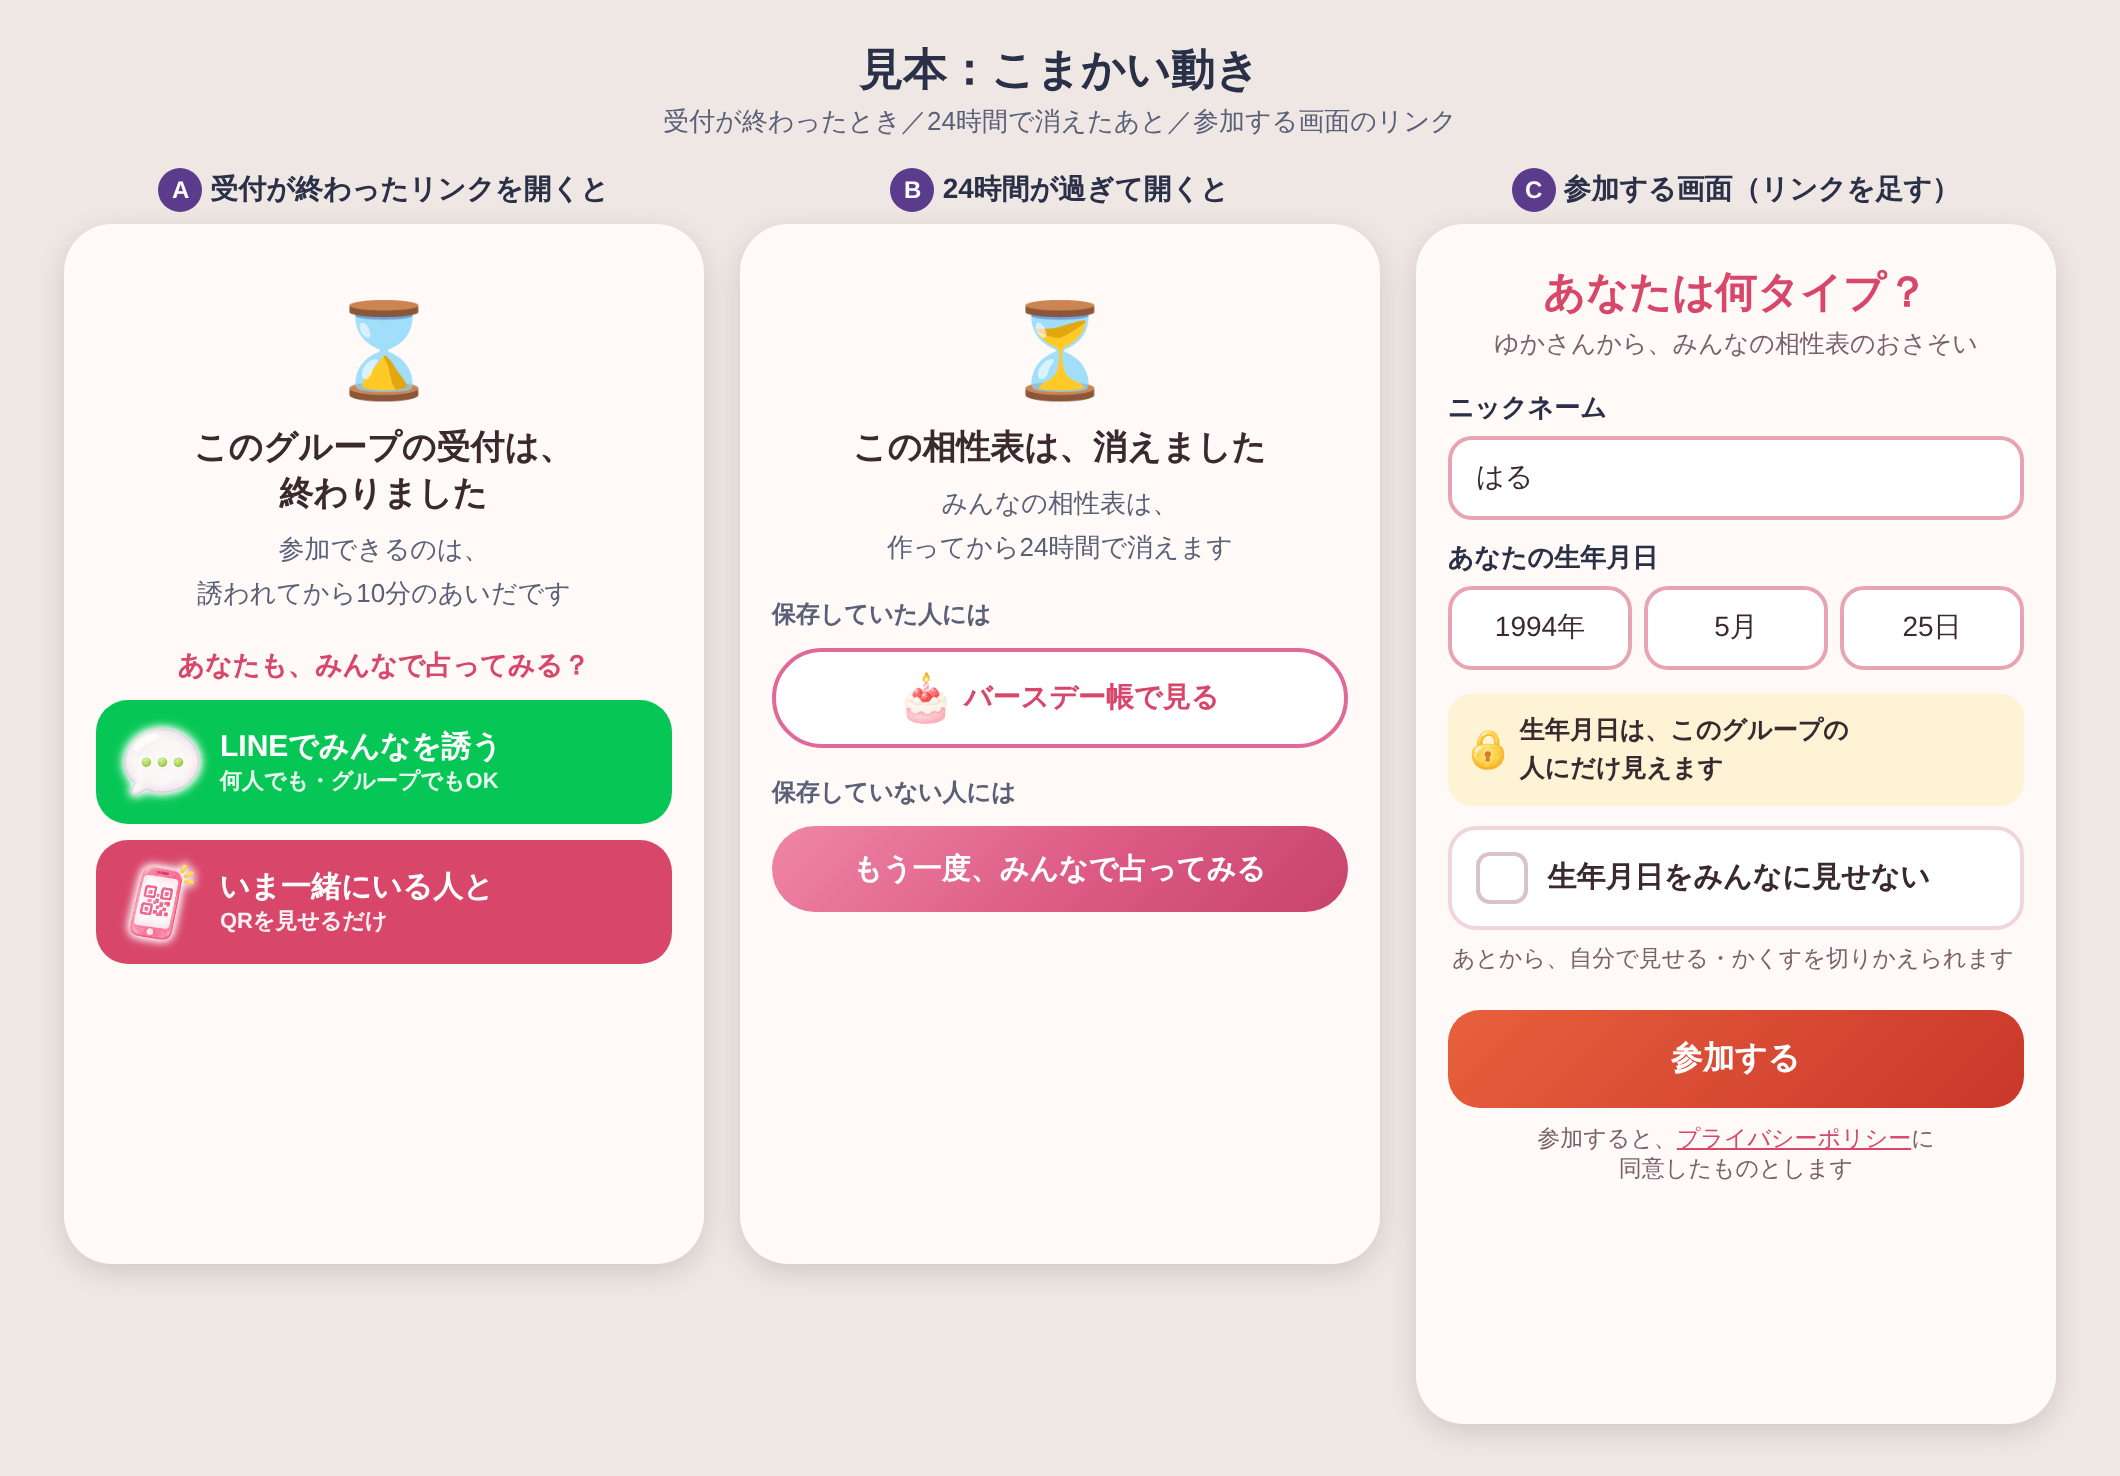
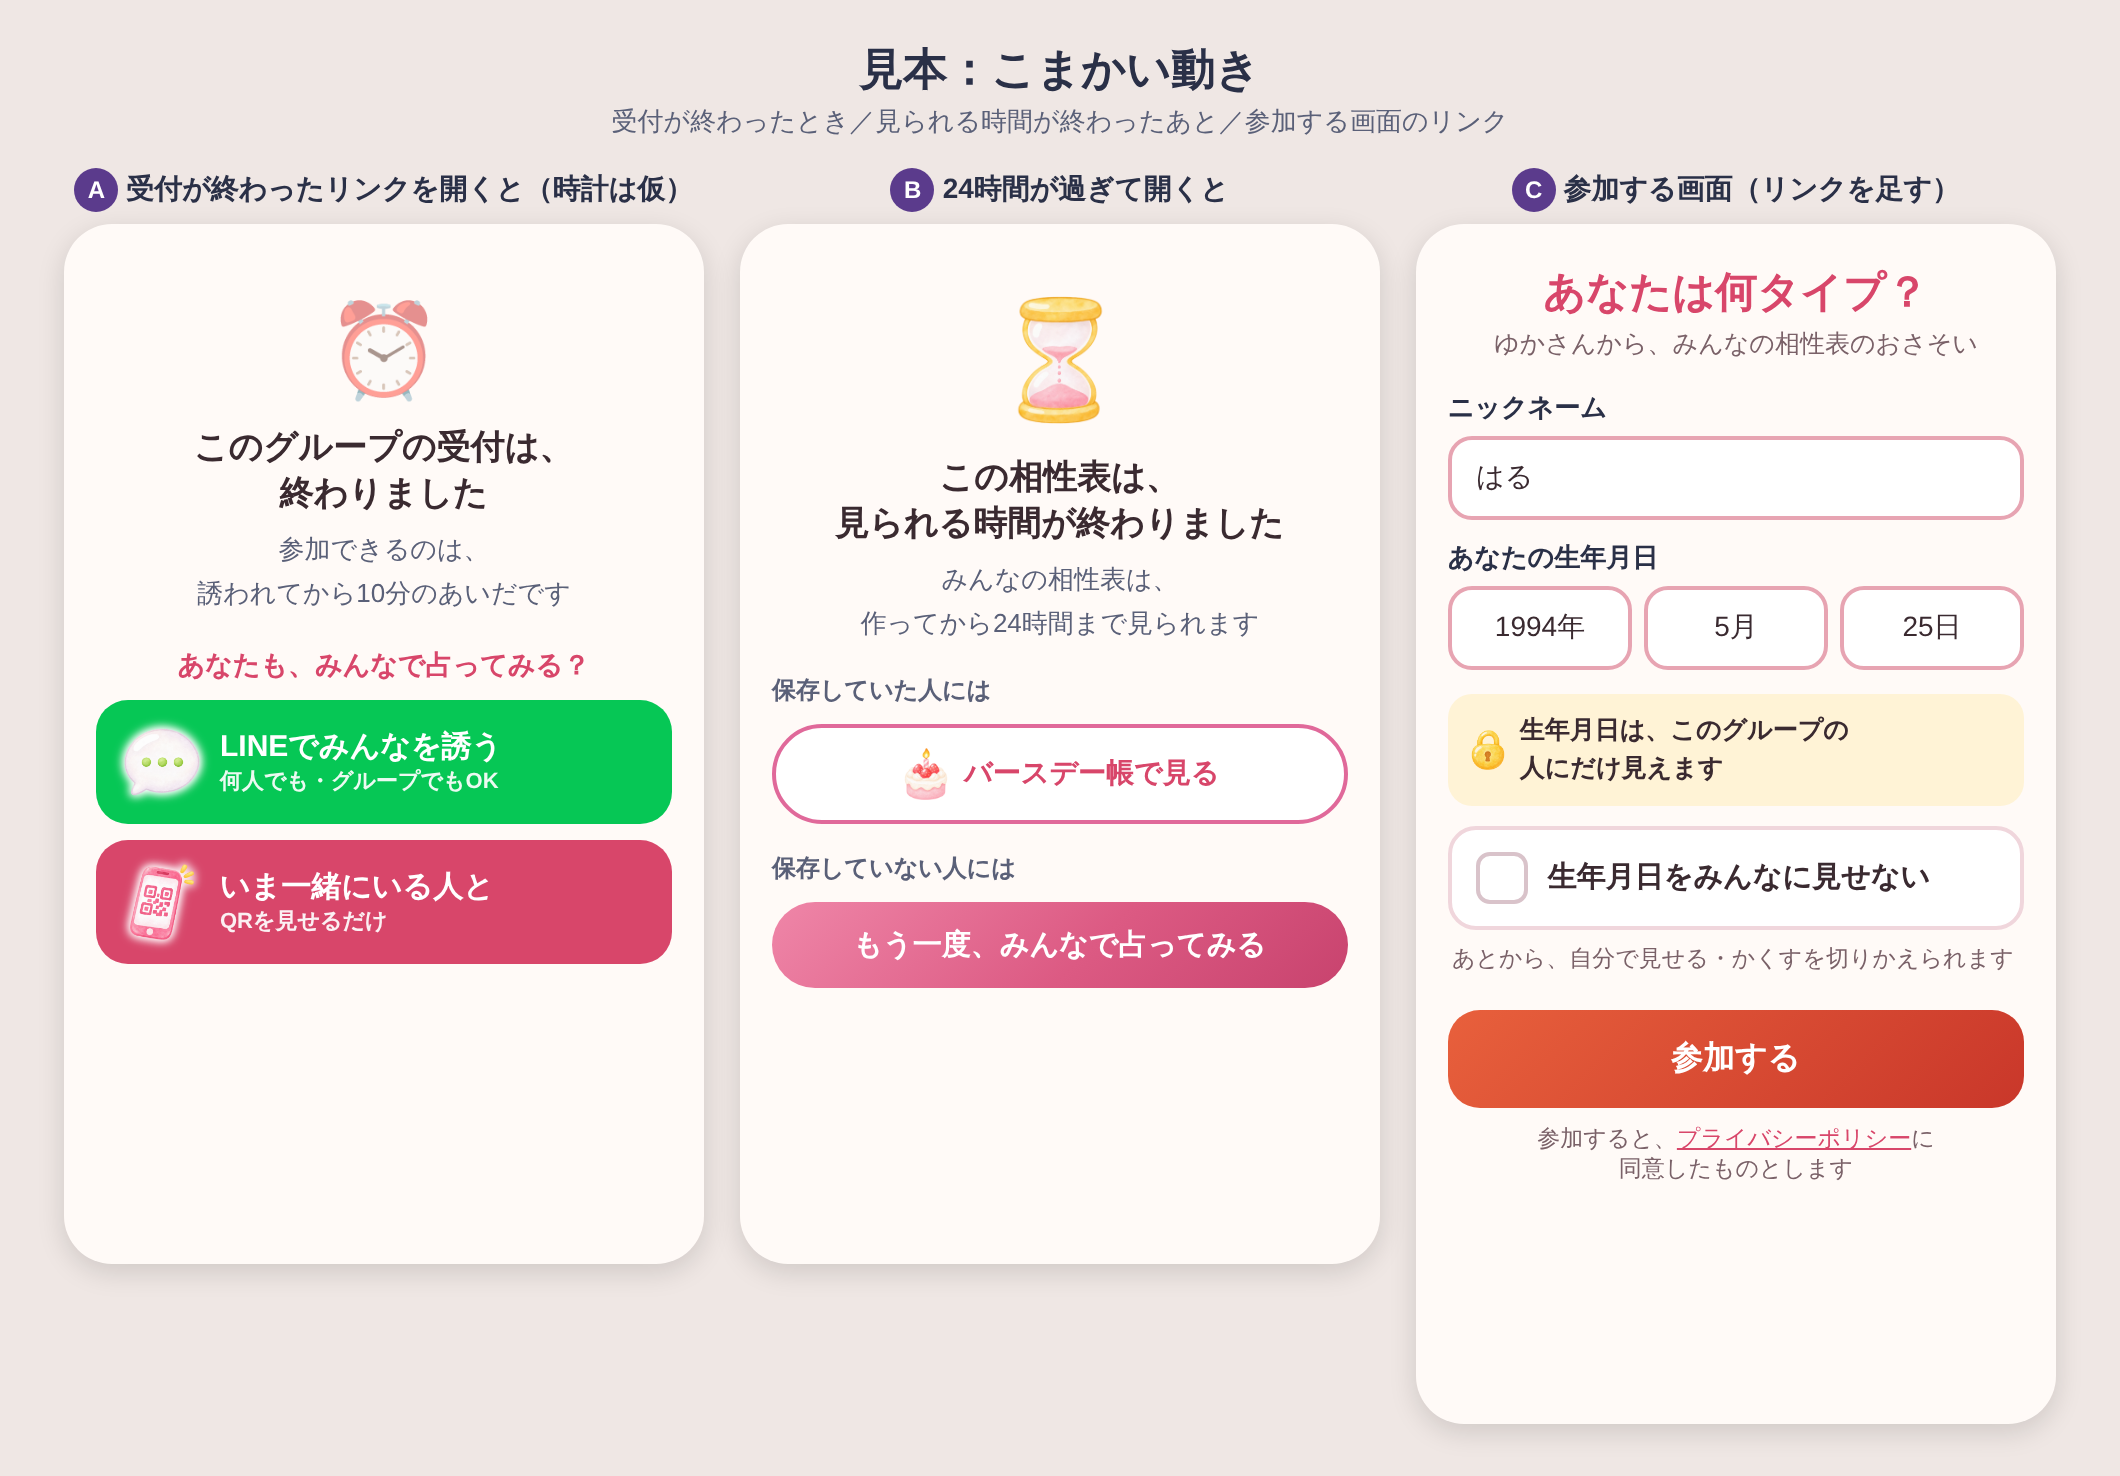
24時間後の画面：「見られる時間が終わりました」と砂時計に決定
Claude-Session: https://claude.ai/code/session_01VAAXUWaNn8kZjmChCXNaq8

diff --git a/docs/みんなの相性表_決まったこと.md b/docs/みんなの相性表_決まったこと.md
@@ -145,5 +145,11 @@
 - 差しかえ用：docs/プライバシーポリシー案_1117/privacy.html（差しかえ用の案）.html
 - みんなの相性表の公開と同じ日に入れかえる
 
+## 24時間が過ぎたあとの画面（11/17 オーナー決定）
+- 砂時計の絵（みんなの相性表_アイコン/11_24時間_砂時計.png）と「この相性表は、見られる時間が終わりました」
+- 保存していた人には「バースデー帳で見る」、保存していない人には「もう一度、みんなで占ってみる」
+
 ## まだ決まっていないこと
+- 相性表の下の一言を「24時間で消えます」のままにするか、「24時間まで見られます」に変えるか
+- 受付が終わった画面の時計のアイコン（オーナーが作成中）
 - 生年月日をかくすチェックの言葉と、置き場所の見本（「生年月日の見せ方」の決定のあと、まだ見本を作っていない）
